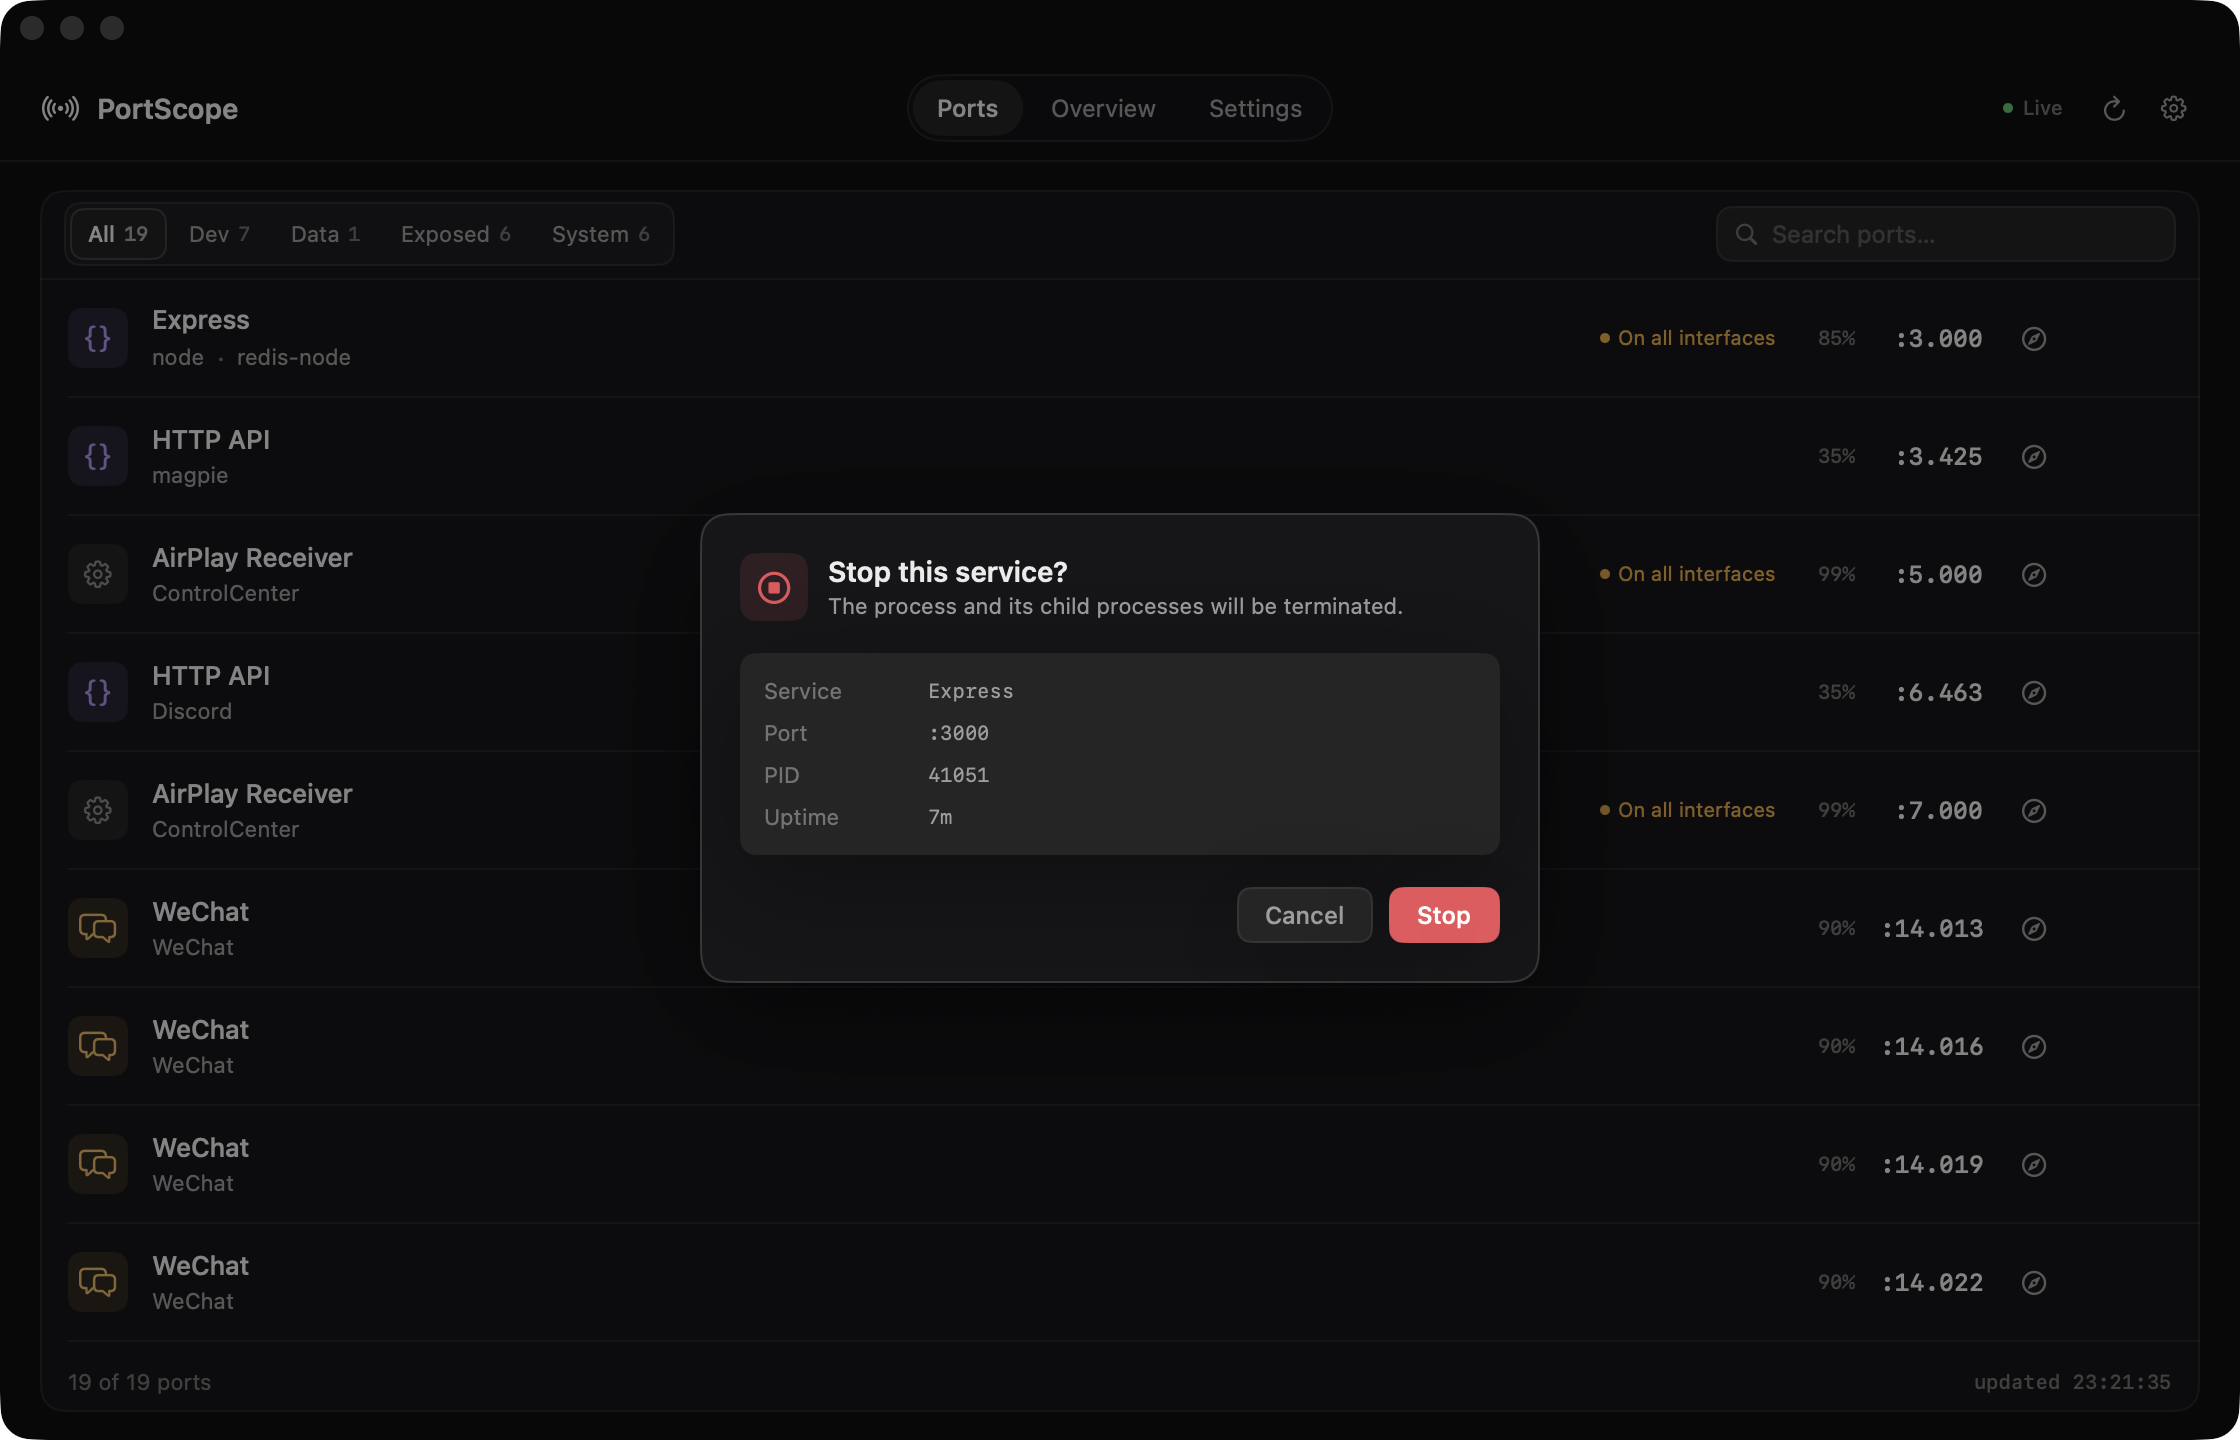
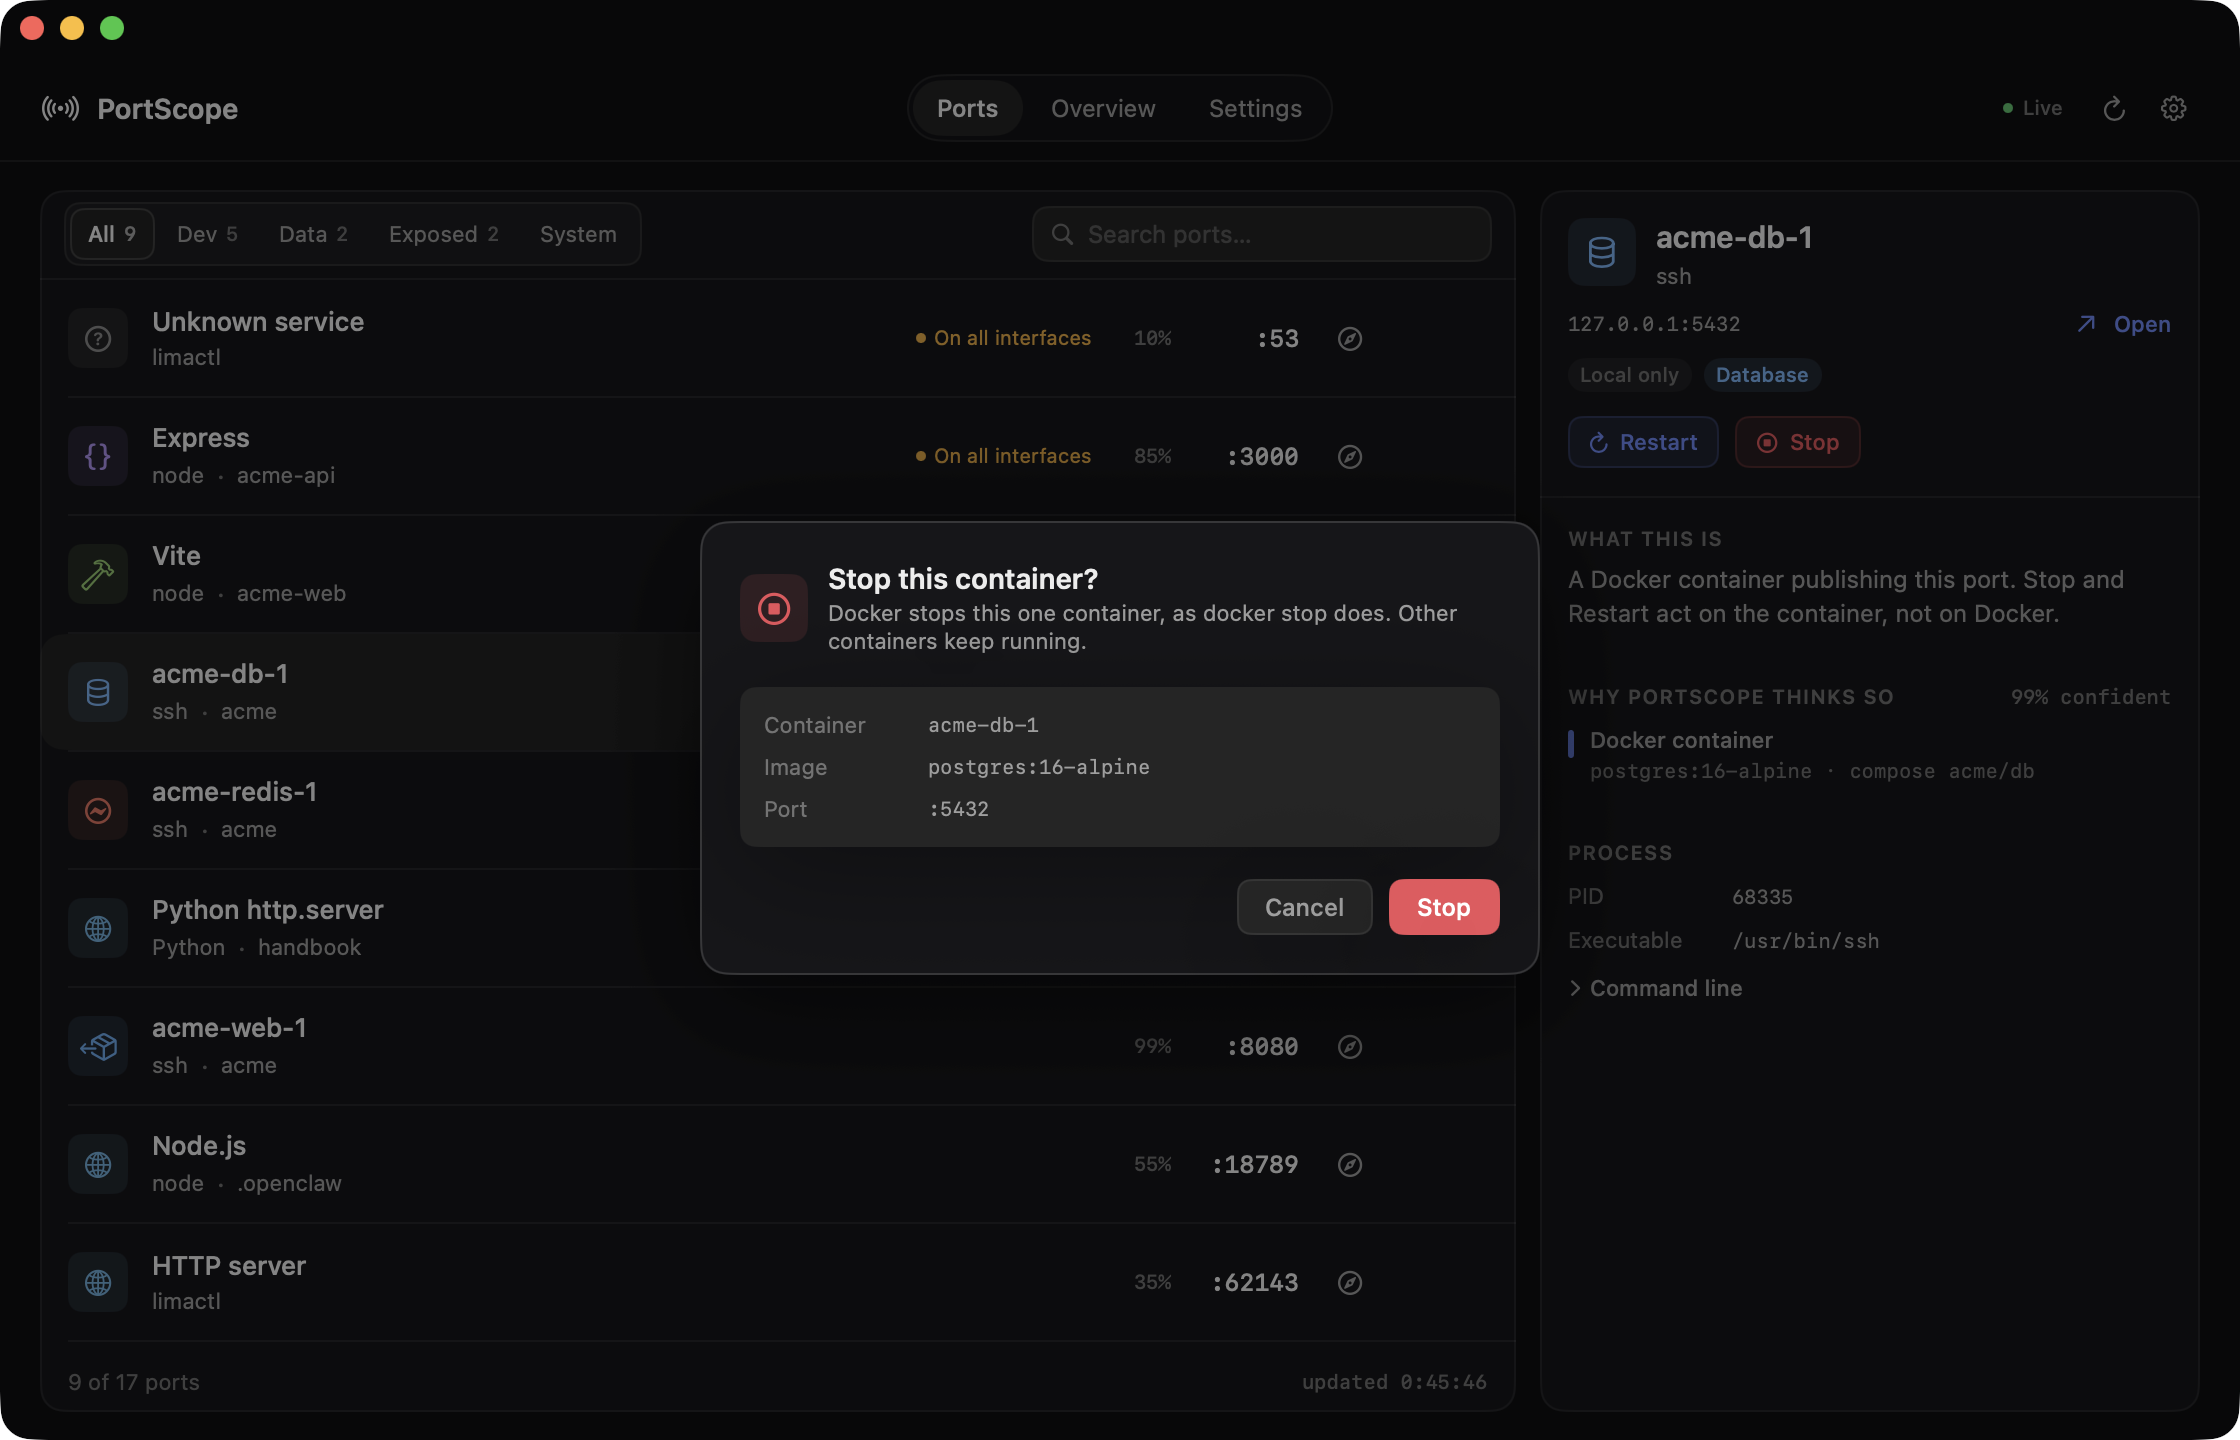
Containers count as data stores; VoiceOver-selectable rows; new screenshots (#30)
* Count database and cache containers as data stores

A postgres or redis container was a plain Container, so the Data filter
and the Data stores count left it out. The kind now comes from the
image's repository name (tag, digest and registry ignored).

The inspector no longer shows a container's Project and uptime: both
were the engine's port forwarder's (ssh under Colima), not the
container's.

* Never name the home folder as a project

A helper started from ~ (limactl under Colima, for one) was shown with
the user's name as its project.

* Make port rows selectable with VoiceOver

Selection was a tap gesture only, which Accessibility cannot see. Rows
are now a button element with a default action, their own buttons kept
inside. Reveal in Finder is disabled for containers, whose working
directory is the forwarder's.

* Retake screenshots

Current UI with dev servers and a Compose project in Docker; ports no
longer shown with locale grouping (:3.000).

---------

diff --git a/Sources/PortScopeKit/Core/PortScanner.swift b/Sources/PortScopeKit/Core/PortScanner.swift
@@ -122,7 +122,7 @@ public actor PortScanner {
         let evidence = [Evidence(sourceKey: "evidence.container", detail: detail, weight: 0.99)]
             + (http?.evidence.filter { $0.sourceKey.hasPrefix("evidence.http") } ?? [])
         return ServiceInfo(
-            kind: .container,
+            kind: containerKind(image: container.image),
             title: container.name,
             summaryKey: "service.dockerContainer",
             confidence: 0.99,
@@ -132,6 +132,29 @@ public actor PortScanner {
             projectPath: nil,
             projectName: container.composeProject
         )
+    }
+
+    /// Images whose name says what they serve. A container running one of
+    /// these is a data store first, so it counts and filters with the
+    /// databases and caches that run on the host.
+    static let dataImages: [String: ServiceInfo.Kind] = [
+        "postgres": .database, "postgis": .database, "mysql": .database, "mariadb": .database,
+        "mongo": .database, "clickhouse-server": .database, "influxdb": .database,
+        "elasticsearch": .database, "opensearch": .database, "qdrant": .database,
+        "redis": .cache, "redis-stack-server": .cache, "valkey": .cache, "memcached": .cache,
+    ]
+
+    /// The kind for a container, from its image's repository name:
+    /// `postgres:16`, `docker.io/library/redis@sha256:…` and
+    /// `localhost:5000/team/mysql:8` are read as postgres, redis and mysql.
+    static func containerKind(image: String) -> ServiceInfo.Kind {
+        var reference = image.split(separator: "@", maxSplits: 1).first.map(String.init) ?? image
+        let lastSlash = reference.lastIndex(of: "/")
+        if let colon = reference.lastIndex(of: ":"), lastSlash.map({ colon > $0 }) ?? true {
+            reference = String(reference[..<colon])
+        }
+        let name = reference.split(separator: "/").last.map { $0.lowercased() } ?? ""
+        return dataImages[name] ?? .container
     }
 
     /// Re-reads process metadata on the next scan. Used after a restart, when

diff --git a/Sources/PortScopeKit/SelfTest/DockerChecks.swift b/Sources/PortScopeKit/SelfTest/DockerChecks.swift
@@ -42,6 +42,22 @@ enum DockerChecks {
                 try expectEqual(service.title, "acme-web-1", "title")
                 try expectEqual(service.projectName, "acme", "project")
             }),
+            ("a database or cache image counts as data, anything else as a container", {
+                let map = DockerEngine.parseContainers(Data(sample.utf8), socket: "/x")
+                try expectEqual(PortScanner.containerService(map[15432]!, http: nil).kind, .database, "postgres:16")
+                let cases: [(String, ServiceInfo.Kind)] = [
+                    ("redis:alpine", .cache),
+                    ("docker.io/library/redis@sha256:0123abcd", .cache),
+                    ("localhost:5000/team/mysql:8", .database),
+                    ("bitnami/postgresql", .container),
+                    ("localhost:5000/redis-proxy", .container),
+                    ("nginx", .container),
+                    ("", .container),
+                ]
+                for (image, kind) in cases {
+                    try expectEqual(PortScanner.containerKind(image: image), kind, image)
+                }
+            }),
             ("containers are read from the engine socket", {
                 let engine = try FakeEngine(response: http(200, body: sample))
                 defer { engine.close() }

diff --git a/Sources/PortScope/UI/InspectorView.swift b/Sources/PortScope/UI/InspectorView.swift
@@ -21,7 +21,10 @@ struct InspectorView: View {
                 summarySection
                 evidenceSection
                 detailsSection
-                if let cwd = info.workingDirectory {
+                // A container's listener is the engine's port forwarder; its
+                // working directory and uptime are the forwarder's, not the
+                // container's.
+                if info.container == nil, let cwd = info.workingDirectory {
                     projectSection(cwd)
                 }
             }
@@ -85,7 +88,7 @@ struct InspectorView: View {
                 if let kind = info.service?.kind {
                     badge(locale.t("kind.\(kind.rawValue)"), color: Theme.tint(for: kind))
                 }
-                if let uptime = info.uptime {
+                if info.container == nil, let uptime = info.uptime {
                     badge(locale.t("inspector.uptime", Presentation.uptime(uptime)),
                           color: Theme.textSecondary)
                 }

diff --git a/Sources/PortScope/UI/PortsView.swift b/Sources/PortScope/UI/PortsView.swift
@@ -79,6 +79,11 @@ struct PortsView: View {
             )
             .contentShape(Rectangle())
             .onTapGesture { selection.value = info.port }
+            // The tap gesture is invisible to VoiceOver; the row is a
+            // selectable element with its buttons kept inside it.
+            .accessibilityElement(children: .contain)
+            .accessibilityAddTraits(selection.value == info.port ? [.isButton, .isSelected] : .isButton)
+            .accessibilityAction { selection.value = info.port }
             .contextMenu { rowMenu(for: info) }
             Hairline(inset: 14)
         }
@@ -136,7 +141,7 @@ struct PortsView: View {
                 NSWorkspace.shared.selectFile(nil, inFileViewerRootedAtPath: cwd)
             }
         }
-        .disabled(info.workingDirectory == nil)
+        .disabled(info.workingDirectory == nil || info.container != nil)
     }
 
     // MARK: - Empty and footer

diff --git a/Sources/PortScopeKit/Core/ServiceIdentifier.swift b/Sources/PortScopeKit/Core/ServiceIdentifier.swift
@@ -191,7 +191,10 @@ public struct ServiceIdentifier: Sendable {
         let name = (cwd as NSString).lastPathComponent
         let systemRoots = ["/Library", "/System", "/private/var", "/Users/Shared"]
         let isSystemPath = systemRoots.contains { cwd.hasPrefix($0) }
-        if isSystemPath || name == "Data" || name.isEmpty { return nil }
+        // The home folder is where launchd and many helpers start; its name
+        // is the user's, not a project's.
+        let isHome = (cwd as NSString).standardizingPath == (NSHomeDirectory() as NSString).standardizingPath
+        if isSystemPath || isHome || name == "Data" || name.isEmpty { return nil }
         return (cwd, name)
     }
 }

diff --git a/Sources/PortScopeKit/SelfTest/IdentifierChecks.swift b/Sources/PortScopeKit/SelfTest/IdentifierChecks.swift
@@ -77,6 +77,10 @@ enum IdentifierChecks {
                 ))
                 try expect(info.projectPath == nil, "expected no project, got \(info.projectPath ?? "nil")")
             }),
+            ("the home folder is not a project", {
+                let info = identify(process("limactl", ["limactl", "hostagent"], port: 61071, cwd: NSHomeDirectory()))
+                try expect(info.projectName == nil, "expected no project, got \(info.projectName ?? "nil")")
+            }),
             ("databases are never HTTP-probed", {
                 let identifier = ServiceIdentifier()
                 try expect(!identifier.shouldProbe(port: 6379, kind: .cache), "cache probed")
